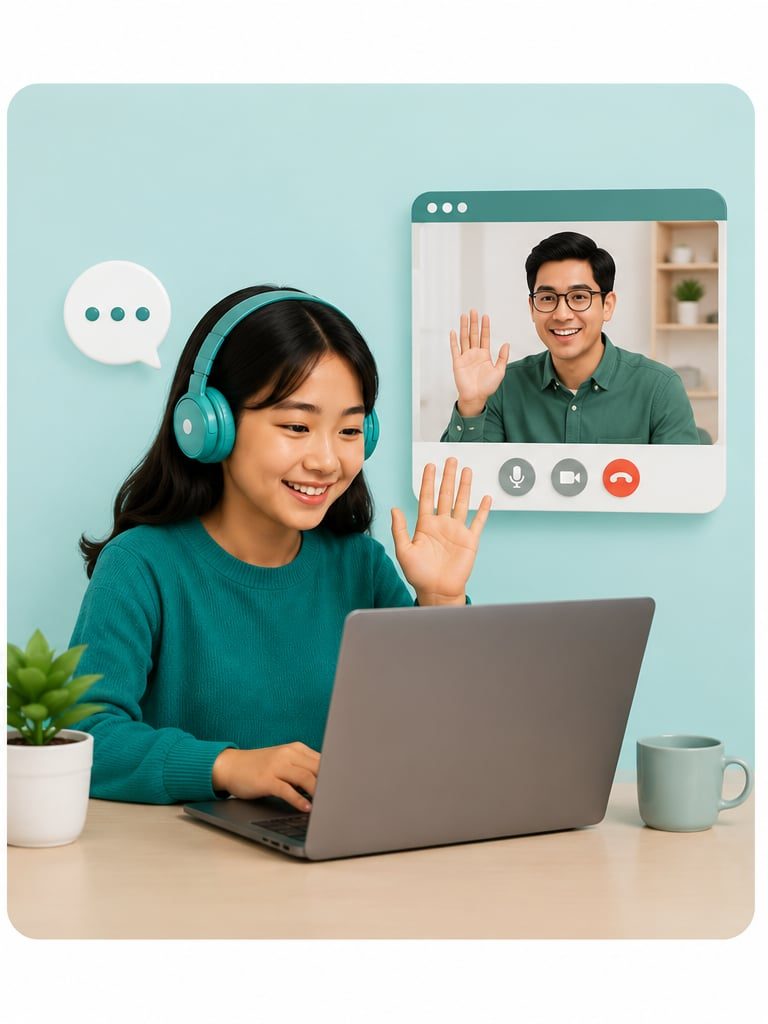
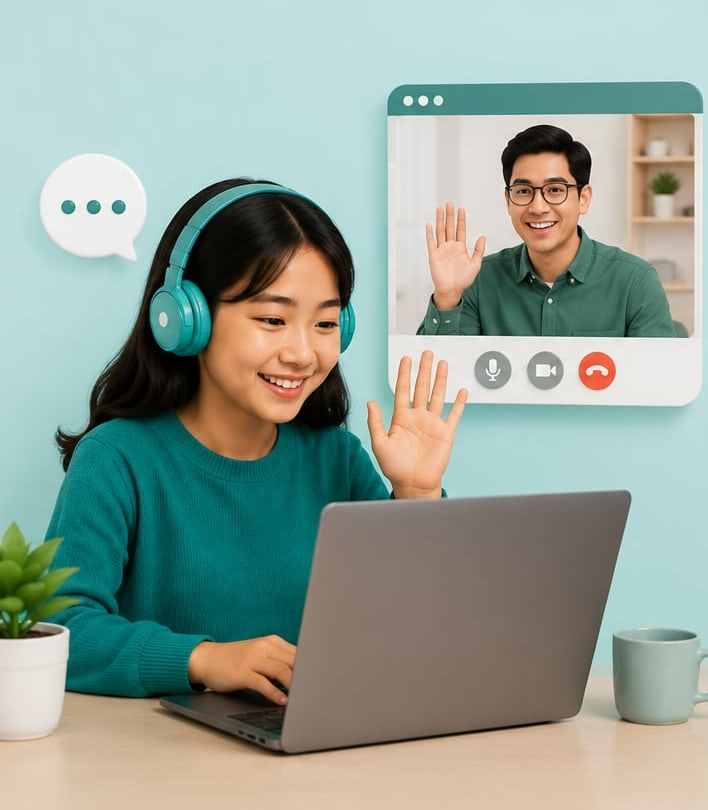
fix(kartu-produk): pangkas bingkai putih bawaan gambar biar full-bleed di kartu
Kartu di beranda sudah full-bleed sejak lama, tapi bingkai putih + sudut
membulat ternyata ikut ter-render DI DALAM file JPG-nya, jadi tetap kelihatan
ada bezel. Semua 12 gambar program dipotong sampai tepi konten (inset melewati
radius sudut) dan titik potong object-cover ditarik ke 25% biar wajah aman.

diff --git a/src/app/page.tsx b/src/app/page.tsx
@@ -1371,7 +1371,9 @@ function DockCard({product:p,mobile,setPricingTab,onSelectProgram}:{product:type
   const card = p as typeof p & { img1?: string; img2?: string; lucideIcon?: React.ElementType };
   const LucideIco = card.lucideIcon;
   const sizeCls = mobile ? "w-full h-full rounded-xl" : "w-full h-full rounded-3xl";
-  const objPos = "object-center";
+  // gambar sudah dipangkas rapat ke tepi (tanpa bingkai putih bawaan file);
+  // titik potong ditarik ke atas biar wajah tak kepotong saat object-cover
+  const objPos = "object-[50%_25%]";
 
   const handleClick = () => {
     if(p.tab>=0){window.location.href = daftarHref(["Kelas Private","Kelas Reguler","IELTS/TOEFL Prep","Kelas Kids"][p.tab]||"")}
